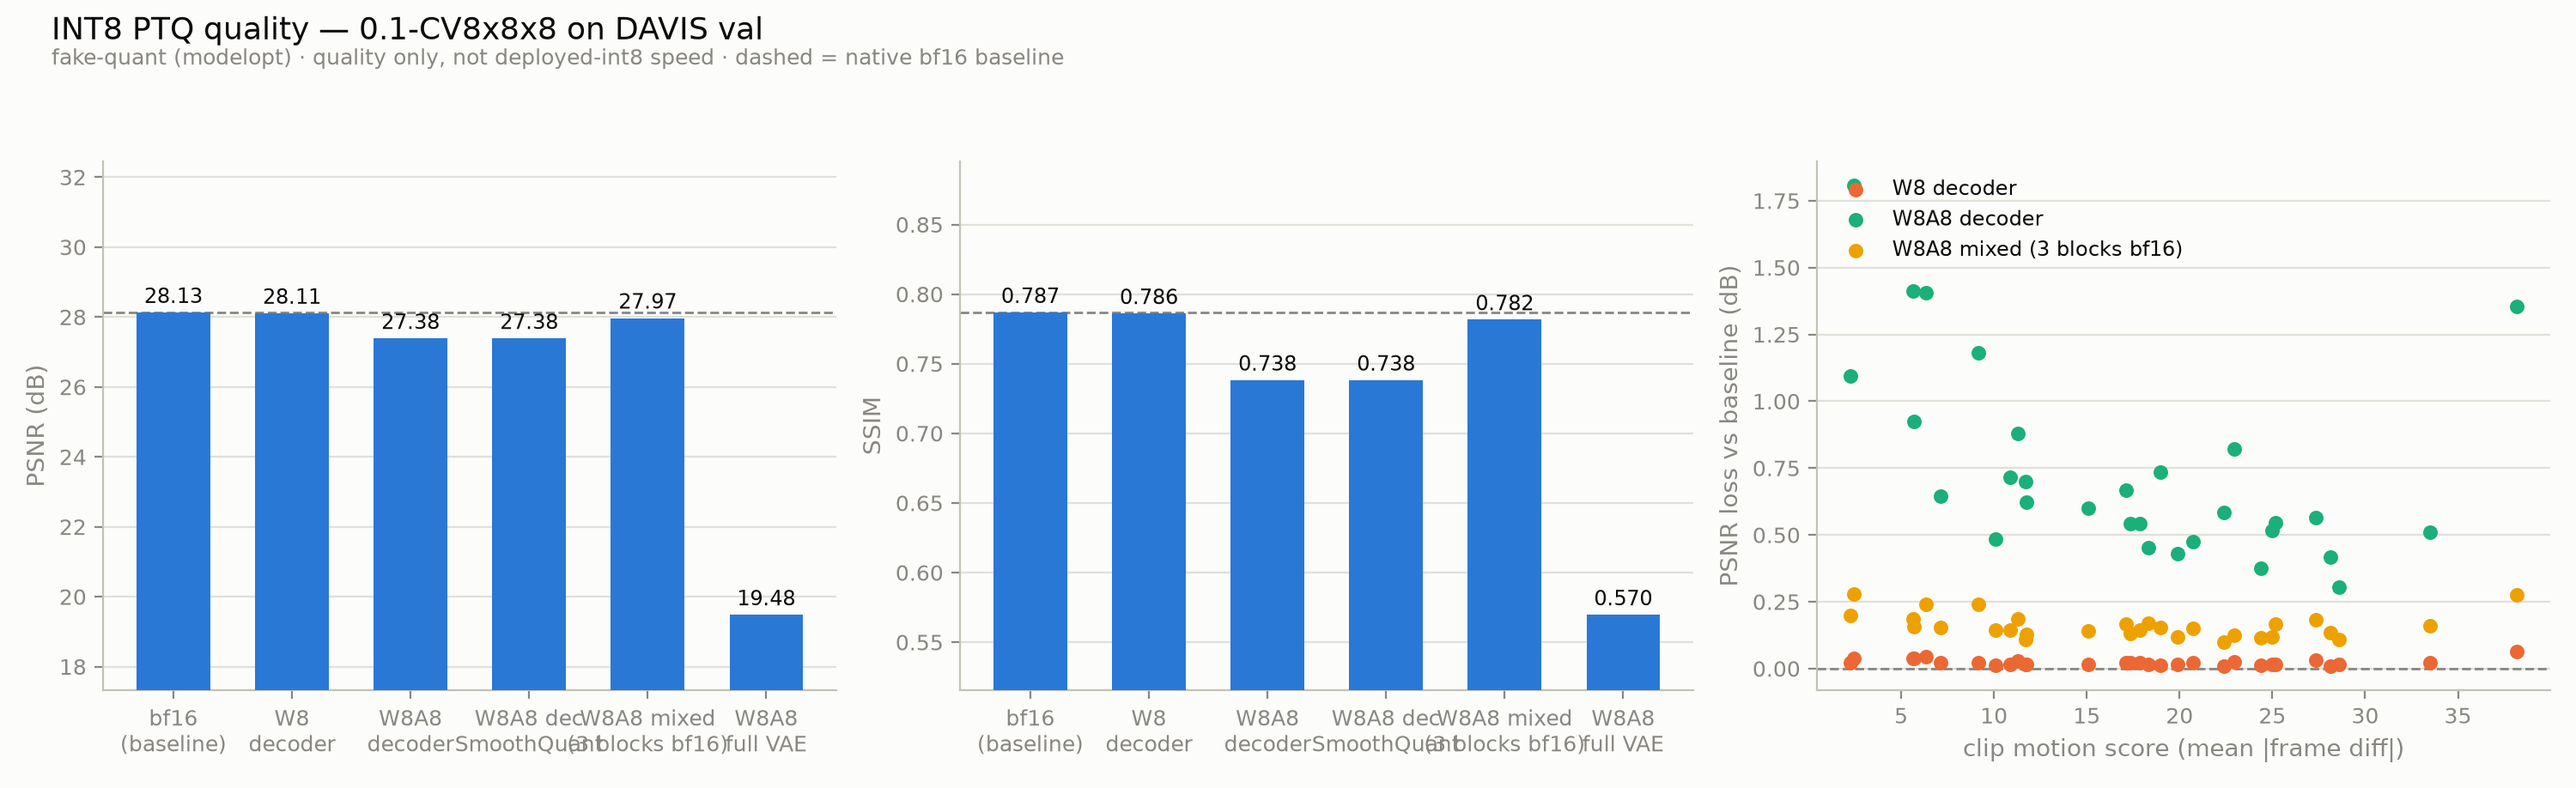
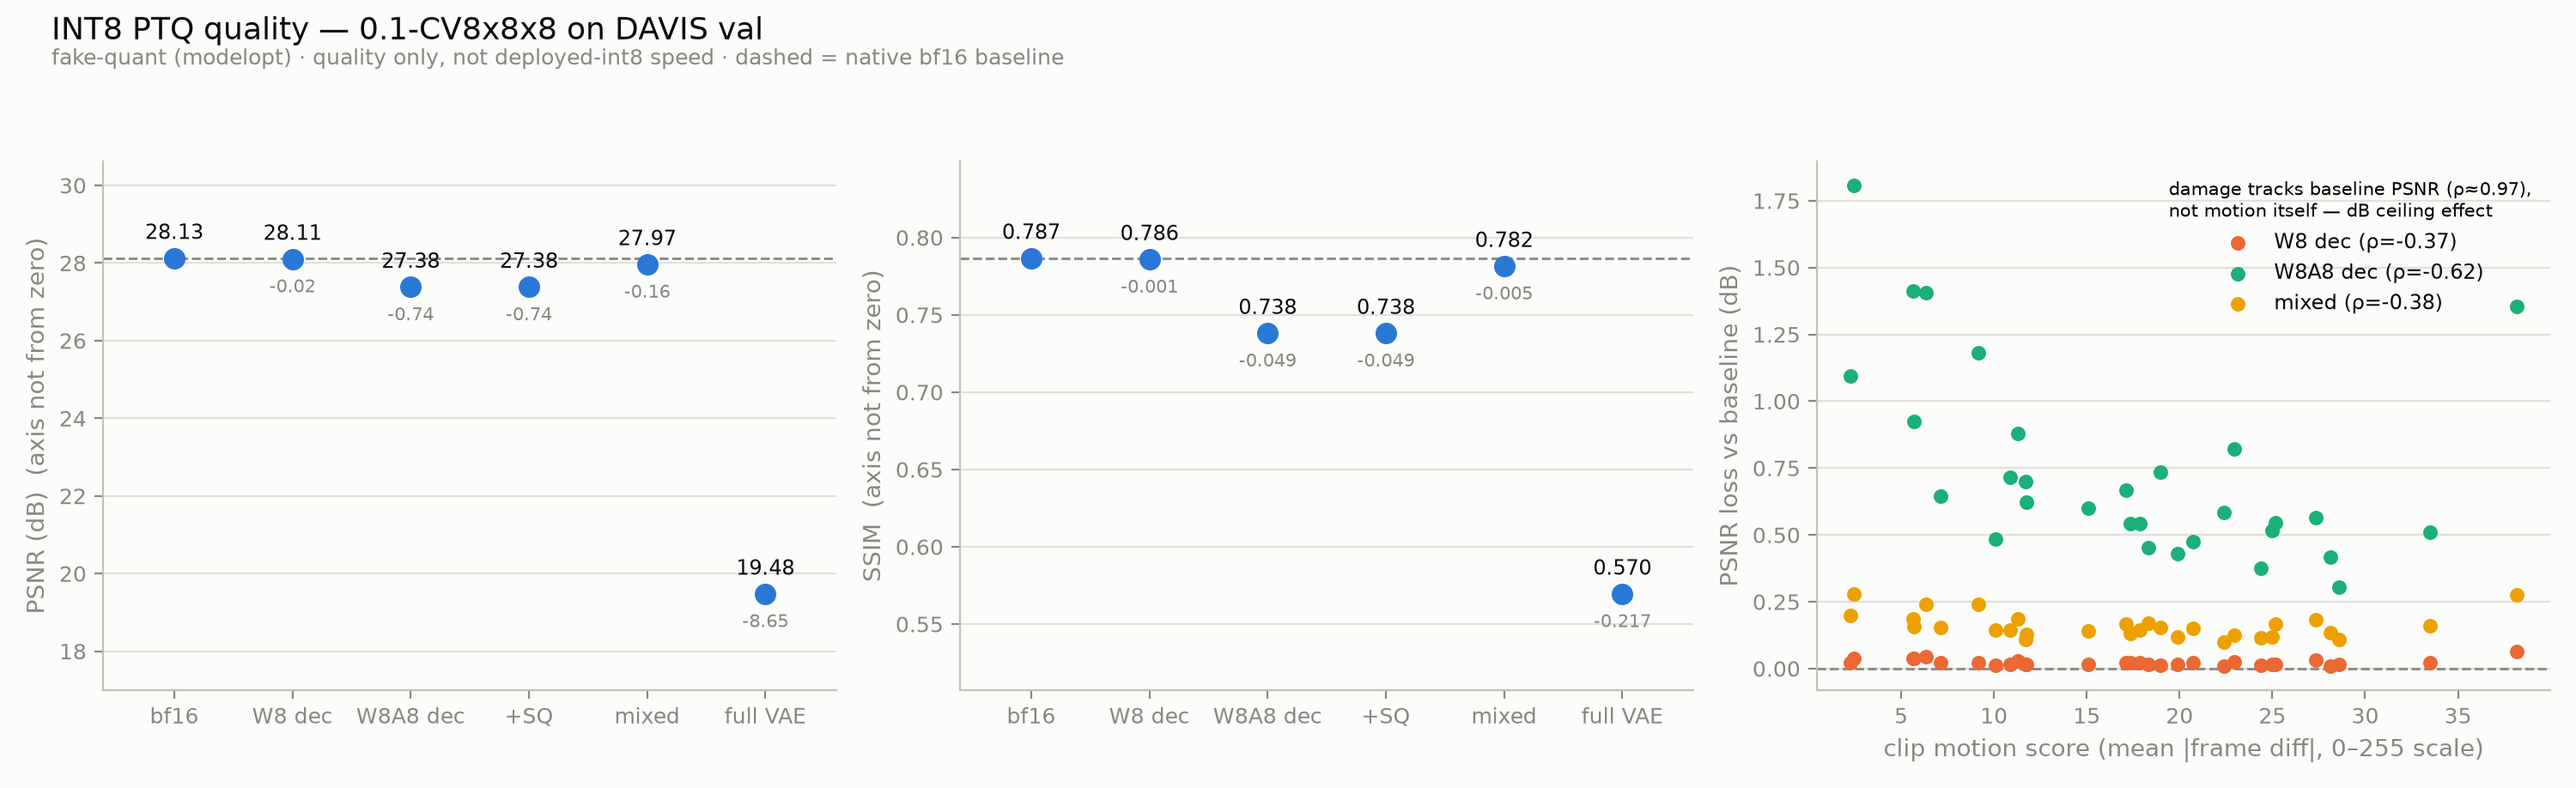
Fix ptq figure (dot plot, explicit non-zero axis, rho in legend); correct motion-independence claim
W8A8 damage rho(motion)=-0.62 but rho(baseline PSNR, drop)=0.97: the dB
ceiling effect, not content targeting.

diff --git a/eval_quality/quant_plot.py b/eval_quality/quant_plot.py
@@ -16,9 +16,8 @@ from pathlib import Path
 import matplotlib.pyplot as plt
 
 ORDER = ["none", "w8_dec", "w8a8_dec", "w8a8_dec_sq", "w8a8_dec_mixed", "w8a8_all"]
-LABELS = {"none": "bf16\n(baseline)", "w8_dec": "W8\ndecoder", "w8a8_dec": "W8A8\ndecoder",
-          "w8a8_all": "W8A8\nfull VAE", "w8a8_dec_sq": "W8A8 dec\nSmoothQuant",
-          "w8a8_dec_mixed": "W8A8 mixed\n(3 blocks bf16)"}
+LABELS = {"none": "bf16", "w8_dec": "W8 dec", "w8a8_dec": "W8A8 dec",
+          "w8a8_all": "full VAE", "w8a8_dec_sq": "+SQ", "w8a8_dec_mixed": "mixed"}
 SCATTER_SKIP = {"w8a8_all", "w8a8_dec_sq"}  # off-scale / identical-to-plain — keep the scatter readable
 SERIES = ["#2a78d6", "#eb6834", "#1baf7a", "#eda100"]  # validated categorical palette
 SURFACE, INK, MUTED, GRID, AXIS = "#fcfcfb", "#0b0b0b", "#898781", "#e1e0d9", "#c3c2b7"
@@ -54,30 +53,48 @@ def main():
 
     fig, (ax_p, ax_s, ax_m) = plt.subplots(1, 3, figsize=(15, 4.6), facecolor=SURFACE)
 
+    # Dot plot, not bars: differences are small vs the absolute values, so a
+    # non-zero axis is needed — honest with point markers, misleading with bars.
     xs = range(len(configs))
     for ax, metric, ylabel, fmt in ((ax_p, "psnr", "PSNR (dB)", "{:.2f}"), (ax_s, "ssim", "SSIM", "{:.3f}")):
         vals = [runs[q][metric] for q in configs]
-        ax.bar(xs, vals, width=0.62, color=SERIES[0], zorder=3)
         ax.axhline(base[metric], color=MUTED, linewidth=1, linestyle="--", zorder=2)
-        for x, v in zip(xs, vals):
-            ax.annotate(fmt.format(v), (x, v), textcoords="offset points", xytext=(0, 4),
+        ax.scatter(list(xs), vals, s=64, color=SERIES[0], zorder=3)
+        for x, (q, v) in zip(xs, ((q, runs[q][metric]) for q in configs)):
+            ax.annotate(fmt.format(v), (x, v), textcoords="offset points", xytext=(0, 8),
                         ha="center", fontsize=8.5, color=INK)
-        ax.set_xticks(list(xs), [LABELS.get(q, q) for q in configs], fontsize=8.5)
+            if q != "none":
+                delta = v - base[metric]
+                ax.annotate(f"{delta:+.2f}" if metric == "psnr" else f"{delta:+.3f}",
+                            (x, v), textcoords="offset points", xytext=(0, -14),
+                            ha="center", fontsize=7.5, color=MUTED)
+        ax.set_xticks(list(xs), [LABELS.get(q, q) for q in configs], fontsize=9)
+        ax.set_xlim(-0.6, len(configs) - 0.4)
         lo, hi = min(vals), max(vals)
-        pad = max((hi - lo) * 0.25, 0.02)
-        ax.set_ylim(lo - pad, hi + pad * 2)
-        style(ax, ylabel)
+        pad = max((hi - lo) * 0.18, 0.02)
+        ax.set_ylim(lo - pad * 1.6, hi + pad * 1.6)
+        style(ax, ylabel + "  (axis not from zero)")
+
+    def spearman(pairs):
+        n = len(pairs)
+        xr = sorted(range(n), key=lambda i: pairs[i][0])
+        yr = sorted(range(n), key=lambda i: pairs[i][1])
+        rank = lambda order: {i: r for r, i in enumerate(order)}
+        rx, ry = rank(xr), rank(yr)
+        return 1 - 6 * sum((rx[i] - ry[i]) ** 2 for i in range(n)) / (n * (n**2 - 1))
 
     quant_configs = [q for q in configs if q != "none" and q not in SCATTER_SKIP]
     for i, q in enumerate(quant_configs):
         pts = [(base["samples"][s]["motion"], base["samples"][s]["psnr"] - runs[q]["samples"][s]["psnr"])
                for s in base["samples"] if s in runs[q]["samples"]]
         ax_m.scatter([p[0] for p in pts], [p[1] for p in pts], s=26, color=SERIES[1 + i % 3],
-                     label=LABELS.get(q, q).replace("\n", " "), zorder=3)
+                     label=f"{LABELS.get(q, q)} (ρ={spearman(pts):+.2f})", zorder=3)
     ax_m.axhline(0, color=MUTED, linewidth=1, linestyle="--", zorder=2)
-    ax_m.set_xlabel("clip motion score (mean |frame diff|)", color=MUTED)
+    ax_m.set_xlabel("clip motion score (mean |frame diff|, 0–255 scale)", color=MUTED)
     if quant_configs:
-        ax_m.legend(frameon=False, fontsize=8.5, labelcolor=INK, loc="upper left")
+        ax_m.legend(frameon=False, fontsize=8.5, labelcolor=INK, loc="upper right",
+                    title="damage tracks baseline PSNR (ρ≈0.97),\nnot motion itself — dB ceiling effect",
+                    title_fontproperties={"size": 7.5})
     style(ax_m, "PSNR loss vs baseline (dB)")
 
     fig.suptitle(f"INT8 PTQ quality — {tok_name} on DAVIS val", color=INK, fontsize=13, x=0.02, ha="left")

diff --git a/eval_quality/quantization_research.md b/eval_quality/quantization_research.md
@@ -13,10 +13,17 @@
 
 Sensitivity scan (10-clip subset): damage is *distributed* across the decoder —
 single-component recovery: head +0.16 dB, up.0 +0.21, attn/mid ≈ 0; the
-head+up.0 combo recovers 0.75 → 0.16 dB on full val. Also: per-clip quantization
-damage is **motion-independent** (flat scatter vs motion score) — the opposite
-signature of temporal compression, confirming they degrade through different
-mechanisms.
+head+up.0 combo recovers 0.75 → 0.16 dB on full val.
+
+Correction (earlier note claimed motion-independence — wrong): per-clip W8A8
+damage correlates *negatively* with motion (ρ=−0.62), but this is almost fully
+mediated by baseline quality — ρ(baseline PSNR, drop) = **0.97**. Quantization
+adds roughly constant noise energy; on a nearly-perfect reconstruction (static
+clip, high baseline PSNR) that constant noise costs many dB, on an already-noisy
+one it is masked (dB ceiling effect). So the mechanism contrast with temporal
+compression stands, but the correct statement is: temporal compression targets
+motion content; quantization noise is content-agnostic and its *dB* cost tracks
+how clean the reconstruction was.
 
 ## Phase 2 RESULTS — deployed int8 speed (TensorRT 10.16, RTX 4090)
 
